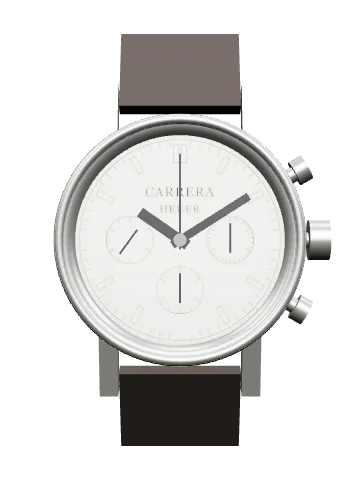
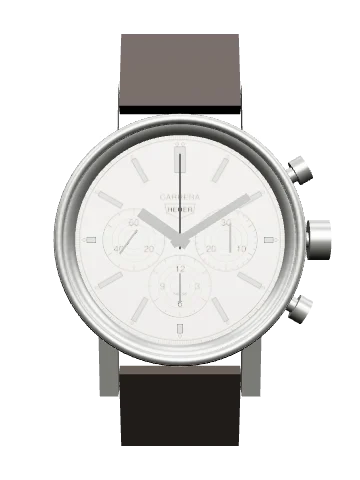
Heuer Carrera 2447 front checked against photographs: Carrera over the Heuer shield, Swiss in the six register, applied bars with luminous dots, register figures, steel hands

diff --git a/draw.js b/draw.js
@@ -218,6 +218,9 @@ function markers(w, g, skip) {
       for (let h = 0; h < 12; h++) s += bat(h, h && h % 3 === 0 ? 1.7 : 3.4, 0.5, 'p', h === 6 ? 1.0 : 0.25);
       s += C(0.28, -0.72, -(R0 - 3.35), 'p') + C(0.28, 0.72, -(R0 - 3.35), 'p') + C(R0 - 4.0, 0, 0, 'hair'); // the last circle is the step in the dial
       break; }
+    case 'carrera': // the first Carrera's dial, from OnTheDash's photographs of a 2447 S: no printed track, since the scale is on the ring under the crystal; long applied steel bars, a wider one at twelve, short ones beside the registers, and a luminous dot at the outer end of each
+      for (let h = 0; h < 12; h++) { const q = h && h % 3 === 0, wd = h ? 0.75 : 1.5, r = E(h * 30); s += bat(h, q ? 1.3 : 3.7, wd, 'p ap', 1.0); (h ? [0] : [-0.42, 0.42]).forEach(dx => { s += `<circle class="p" r="0.2" cx="${dx}" cy="${f(-r + 0.62)}" transform="rotate(${h * 30})"/>`; }); }
+      break;
     case 'baton': s += ticks(); each(h => h === 0 ? dbl(2.6, 0.8) : bat(h, 2.6, 0.8)); break;
     case 'block': s += ticks(); each(h => h === 0 ? dbl(2.8, 1.3) : bat(h, 2.6, 1.7)); break;
     case 'sm300': s += ticks(); each(h => h % 3 === 0 ? num(h, h || 12, R0 * 0.25, R0 * 0.7) + bat(h, 1, 1) : bat(h, 3.6, 1.1)); break;
@@ -328,6 +331,8 @@ function subs(w, g, o = {}) {
     s += d.subSquare ? RC(cx - rs, cy - rs, 2 * rs, 2 * rs, cls, 0.9) : C(rs, cx, cy, 'p') + C(rs, cx, cy, cls, sty);
     const n = role === 'min30' ? 30 : 12;
     if (!d.subSquare) for (let i = 0; i < n; i++) s += rad(i * 360 / n, rs - (i % (n / 6) ? 0.45 : 0.9), rs - 0.12, 't sk' + pos, cx, cy);
+    if (d.subRings) for (const k of [0.3, 0.5, 0.7]) s += C(rs * k, cx, cy, 'hair'); // the fine circles turned into each register, a few of them
+    if (d.subWord && pos === 6) s += T(d.subWord, cx, cy + rs * 0.3, rs * 0.14, 'tx dl', 'style="font-family:Helvetica,Arial,sans-serif"');
     if (d.subNums && !d.subSquare) (role === 'hr12' ? [[0, 12], [90, 3], [180, 6], [270, 9]] : role === 'min30' ? [[0, 30], [120, 10], [240, 20]] : [[0, 60], [120, 20], [240, 40]]).forEach(q => { const p = P(q[0], rs * 0.56, cx, cy), z = rs * 0.3; s += T(q[1], p[0], p[1] + z * 0.36, z, 'tx sn', 'style="font-family:Helvetica,Arial,sans-serif"'); }); // the figures printed in each register
     if (!o.noHands) s += `<g transform="translate(${cx},${cy})"><g ${role === 'sec' ? `data-hand="s" data-bps="${b}"` : `data-chr="${role === 'min30' ? 'm' : 'h'}"`}>${L(0, 0.8, 0, -rs * 0.82, 'hd')}</g>${C(0.32, 0, 0, 'k')}</g>`;
   }
@@ -349,6 +354,7 @@ function dtext(w, g, o) {
   if (d.set && !o.redact) {
     const q = d.set, sans = 'style="font-family:Helvetica,Arial,sans-serif" letter-spacing=".03em"';
     if (q.omega != null) s += T('Ω', 0, R0 * q.omega, R0 * 0.13, 'tx om', 'style="font-family:Helvetica,Arial,sans-serif"'); // the applied metal emblem, shown as the letter
+    if (q.shield != null) { const W = R0 * 0.3, H = R0 * 0.15, y0 = R0 * q.shield; s += Pa(polyD([[f(-W / 2), f(y0)], [f(W / 2), f(y0)], [f(W / 2 - W * 0.06), f(y0 + H * 0.6)], [0, f(y0 + H)], [f(-W / 2 + W * 0.06), f(y0 + H * 0.6)]]), 't') + T('HEUER', 0, y0 + H * 0.56, H * 0.48, 'tx dl', 'style="font-family:Helvetica,Arial,sans-serif;font-weight:bold"'); } // Heuer's printed shield, as a plain five-sided outline
     if (q.crown != null) { const u = R0 * 0.075, y0 = R0 * q.crown; s += Pa(polyD([[-.55, 0], [-.95, -.7], [-.45, -.32], [-.5, -.98], [-.12, -.38], [0, -1.12], [.12, -.38], [.5, -.98], [.45, -.32], [.95, -.7], [.55, 0]].map(p => [f(p[0] * u), f(y0 + p[1] * u)])), 'k dl') + [[-.95, -.7], [-.5, -.98], [0, -1.12], [.5, -.98], [.95, -.7]].map(p => C(u * 0.1, p[0] * u, y0 + p[1] * u, 'k dl')).join('') + RC(-0.55 * u, y0 + 0.08 * u, 1.1 * u, 0.12 * u, 'k dl'); }
     q.lines.forEach(l => { s += T(l[0].replace(/&/g, '&amp;'), 0, R0 * l[1], R0 * l[2], 'tx dl', l[3] === 2 ? 'style="font-style:italic"' : l[3] ? sans : 'letter-spacing=".06em"'); }); // 2: a script line, approximated in italic
     if (q.foot) s += T(q.foot, 0, R0 - 0.12, R0 * 0.042, 'tx dl', sans);
@@ -720,10 +726,11 @@ function face(w, real) {
   const mixed = real && !w.dial.dark ? `${w.bezel && w.bezel.dark ? '.bzd .tn{fill:#121212;stroke:#2b2b2b}.bzd text{fill:#f0ede2}.bzd .t,.bzd .hair{stroke:#e9e6da}.bzd .bar{stroke:#e9e6da}.bzd .k{fill:#e9e6da}' : ''}${w.dial.subDark ? '.tn2{fill:#161616;stroke:#2b2b2b}' : ''}` : '';
   const gold = real && w.dial.gold ? '.nm,.cal,.dl{fill:#cfa13a}.hc{fill:#cfa13a;stroke:#4a3c16}.mw{fill:#1b2a55;stroke:#cfa13a;stroke-width:.08}.mn{fill:#e3c060;stroke:none}.t,.hair{stroke:#b08a34}.k{fill:#cfa13a}' : '';
   const gilt = real && w.dial.gilt ? '.dl{fill:#c9a45c}.gt .t{stroke:#c9a45c}' : ''; // printing in gilt, as on the early glossy dials
+  const ap = real && !w.dial.dark ? '.ap{fill:#a7a8a4}' : ''; // applied steel bars on a pale dial
   const sf = real && w.dial.subFills ? 'svg{--so:1;' + Object.entries(w.dial.subFills).map(q => `--sf${q[0]}:${q[1][0]}`).join(';') + '}' + Object.entries(w.dial.subFills).filter(q => q[1][1]).map(q => `.sk${q[0]}{stroke:#ecece8}`).join('') : ''; // each register's colour, and pale marks on the dark ones
   const pinkHands = real && w.dial.goldHands ? '.hc{fill:#cf9a78;stroke:#5a3b2a}.mw{fill:#1b2a55;stroke:#5a3b2a;stroke-width:.08}.mn{fill:#e3c060;stroke:none}' : '';
   const g3 = real && w.dial.custom === 'gyro3' ? '.g3-base{fill:#050506;stroke:none}.g3-met{fill:#5d5f63;stroke:#2f3033;stroke-width:.08}.g3-streak{stroke:#9a9c9f;stroke-width:.07}.g3-rim{fill:#c98d6b;stroke:#5a3b2a;stroke-width:.06}.g3-hole{fill:#09090a}.g3-blue{fill:#0a1340;stroke:#c98d6b;stroke-width:.06}.g3-white{fill:#f2f0e9;stroke:#8a8a86;stroke-width:.05}.g3-ink{stroke:#1a1a1a}.g3-inkf{fill:#1a1a1a;font-family:Helvetica,Arial,sans-serif}.g3-gold{fill:#dba886;stroke:#5a3b2a;stroke-width:.04}.g3-star{fill:#d5dcff}.g3-day{fill:#e3e1da;stroke:none}.g3-steel{fill:#b9bbbd;stroke:#4a4c4f;stroke-width:.07}.g3-screw{fill:#2a55a8;stroke:#0d1f45;stroke-width:.06}.g3-teeth{stroke:#c9cbcd;stroke-width:.09}.g3-sun{fill:#dba886;stroke:none}.g3-ray{stroke:#b98a64;stroke-width:.06}.g3-wt{stroke:#eef0ff}.g3-txt{fill:#e6e6e6}' : '';
-  const s = `<style>${real ? (w.dial.dark ? REAL : REAL_LIGHT) : TECH}${mixed}${gold}${gilt}${pinkHands}${g3}${sf}</style><circle r="${R}" fill="${real ? '#b5b5af' : '#EDE6D8'}"/><g class="bzd">${bezel(w, g)}</g>` + dial(w, g, { noHands: true });
+  const s = `<style>${real ? (w.dial.dark ? REAL : REAL_LIGHT) : TECH}${mixed}${gold}${gilt}${ap}${pinkHands}${g3}${sf}</style><circle r="${R}" fill="${real ? '#b5b5af' : '#EDE6D8'}"/><g class="bzd">${bezel(w, g)}</g>` + dial(w, g, { noHands: true });
   // The dial is drawn once as a picture, so the date window is filled here with today's date; on the plates it is filled live.
   const today = new Date(), DAYS3 = ['SUN', 'MON', 'TUE', 'WED', 'THU', 'FRI', 'SAT'];
   const dated = s.replace(new RegExp('(data-date=""[^>]*>)', 'g'), `$1${today.getDate()}`).replace(new RegExp('(data-daydate=""[^>]*>)', 'g'), `$1${DAYS3[today.getDay()]} ${today.getDate()}`);

diff --git a/workbench/watches/carrera-2447.js b/workbench/watches/carrera-2447.js
@@ -16,7 +16,7 @@ export default {
     type: 'procedural',
     builder: 'round-chronograph',
     note: 'Case, lugs and pushers are simplified. The movement is laid out from Valjoux’s own sheet for calibres 23 and 72: the going train is measured from its photograph of the plate and a few sizes are stated in its table. The chronograph wheels are placed from Rolex’s photograph of its calibre 727, which is the same calibre with a faster balance. The other sizes, the heights, the tooth counts and every outline are estimated. Not a factory model or scan.',
-    params: { thickness: 13, lugToLug: 44, lugWidth: 18, movementDiameter: 29.5, beatsPerHour: 18000, calibre: '72', dustCover: false, spacer: false, wall: 3.05, bezelInsert: false, plate: 'steel', handKind: 'ink', chronoHand: 'ink', dome: 2.6 }
+    params: { thickness: 13, lugToLug: 44, lugWidth: 18, movementDiameter: 29.5, beatsPerHour: 18000, calibre: '72', dustCover: false, spacer: false, wall: 3.05, bezelInsert: false, plate: 'steel', handKind: 'steelDark', chronoHand: 'ink', dome: 2.6 }
   },
   images: [],
 
@@ -62,12 +62,12 @@ export default {
       significance: '', related: ['crystal', 'case'] },
     { id: 'dial', name: 'Dial and registers', group: 'Exterior', status: 'D', anchor: [-8, -1, 2.4], face: 1,
       beginner: 'A silver dial with three small circles. The left one shows running seconds; the right and bottom ones count minutes and hours while the stopwatch runs.',
-      horologist: 'Three registers: 30 minutes at 3, 12 hours at 6, running seconds at 9. The model shows the 2447 S, with a silver dial and silver registers; black dials and dials with contrasting registers were also made.',
+      horologist: 'CARRERA is printed above Heuer’s shield, and SWISS inside the register at six. Long applied steel bars mark the hours, a wider one at twelve and short ones beside the registers, each with a luminous dot at its outer end. The dial has no printed track of its own. The lettering and marks are placed from OnTheDash’s photographs of a first 2447 S; the shield is a plain outline and the typefaces are approximations. Three registers: 30 minutes at 3, 12 hours at 6, running seconds at 9. The model shows the 2447 S, with a silver dial and silver registers; black dials and dials with contrasting registers were also made.',
       fn: 'Displays the time and elapsed time.', material: 'Metal dial',
       significance: '', related: ['hands', 'minute-recorder', 'fourth'] },
     { id: 'hands', name: 'Hands', group: 'Exterior', status: 'D', anchor: [3, 9, 3.1], face: 1,
       beginner: 'Hour and minute hands, a long thin stopwatch hand that rests at twelve, and a small hand in each circle.',
-      horologist: 'Baton hands with a central chronograph seconds hand and a hand in each register. The small seconds at 9 runs all the time. The hands are drawn dark so that they show against the silver dial.',
+      horologist: 'Thin polished steel hands with luminous inserts, a thin black chronograph seconds hand at the centre and a black hand in each register. The small seconds at 9 runs all the time. The steel hands are shown a shade darker than polished steel so that they show against the silver dial, and their luminous inserts are not modelled.',
       fn: 'Indicate the time and elapsed time.', material: 'Steel',
       significance: '', related: ['dial', 'chrono-runner'] },
     { id: 'case', name: 'Case and lugs', group: 'Exterior', status: 'D', anchor: [-15, 17, 0], face: 0,

diff --git a/data.js b/data.js
@@ -104,7 +104,7 @@ window.WATCHES = [
 {
   id:'carrera', brand:'Heuer', model:'Carrera', ref:'2447', year:'1963', span:'1963 – c. 1970', kind:'Chronograph',
   c:{shape:'round', d:36, t:[13,'n'], lug:[18,'v'], straight:true},
-  bezel:{type:'plain', w:1.5}, dial:{dark:false, markers:'baton', flange:'fifths', subs:[[3,'min30'],[6,'hr12'],[9,'sec']], text:['CARRERA','HEUER']},
+  bezel:{type:'plain', w:1.5}, dial:{dark:false, markers:'carrera', flange:'fifths', subBig:true, subNums:true, subRings:true, subWord:'SWISS', subs:[[3,'min30'],[6,'hr12'],[9,'sec']], text:['CARRERA','HEUER'], set:{lines:[['CARRERA',-0.4,0.078,1]], shield:-0.36}},
   hands:'baton', sec:'sub', chrono:true, crown:{pos:3}, pushers:'pump', strap:'leather',
   mv:{cal:'Valjoux 72', type:'chrono', vph:18000, wind:'Manual', size:'13 lignes (≈ 29.5 mm)', note:'Three-register column-wheel chronograph.'},
   back:{type:'screw', note:'Screw back. Engraving omitted.'},
